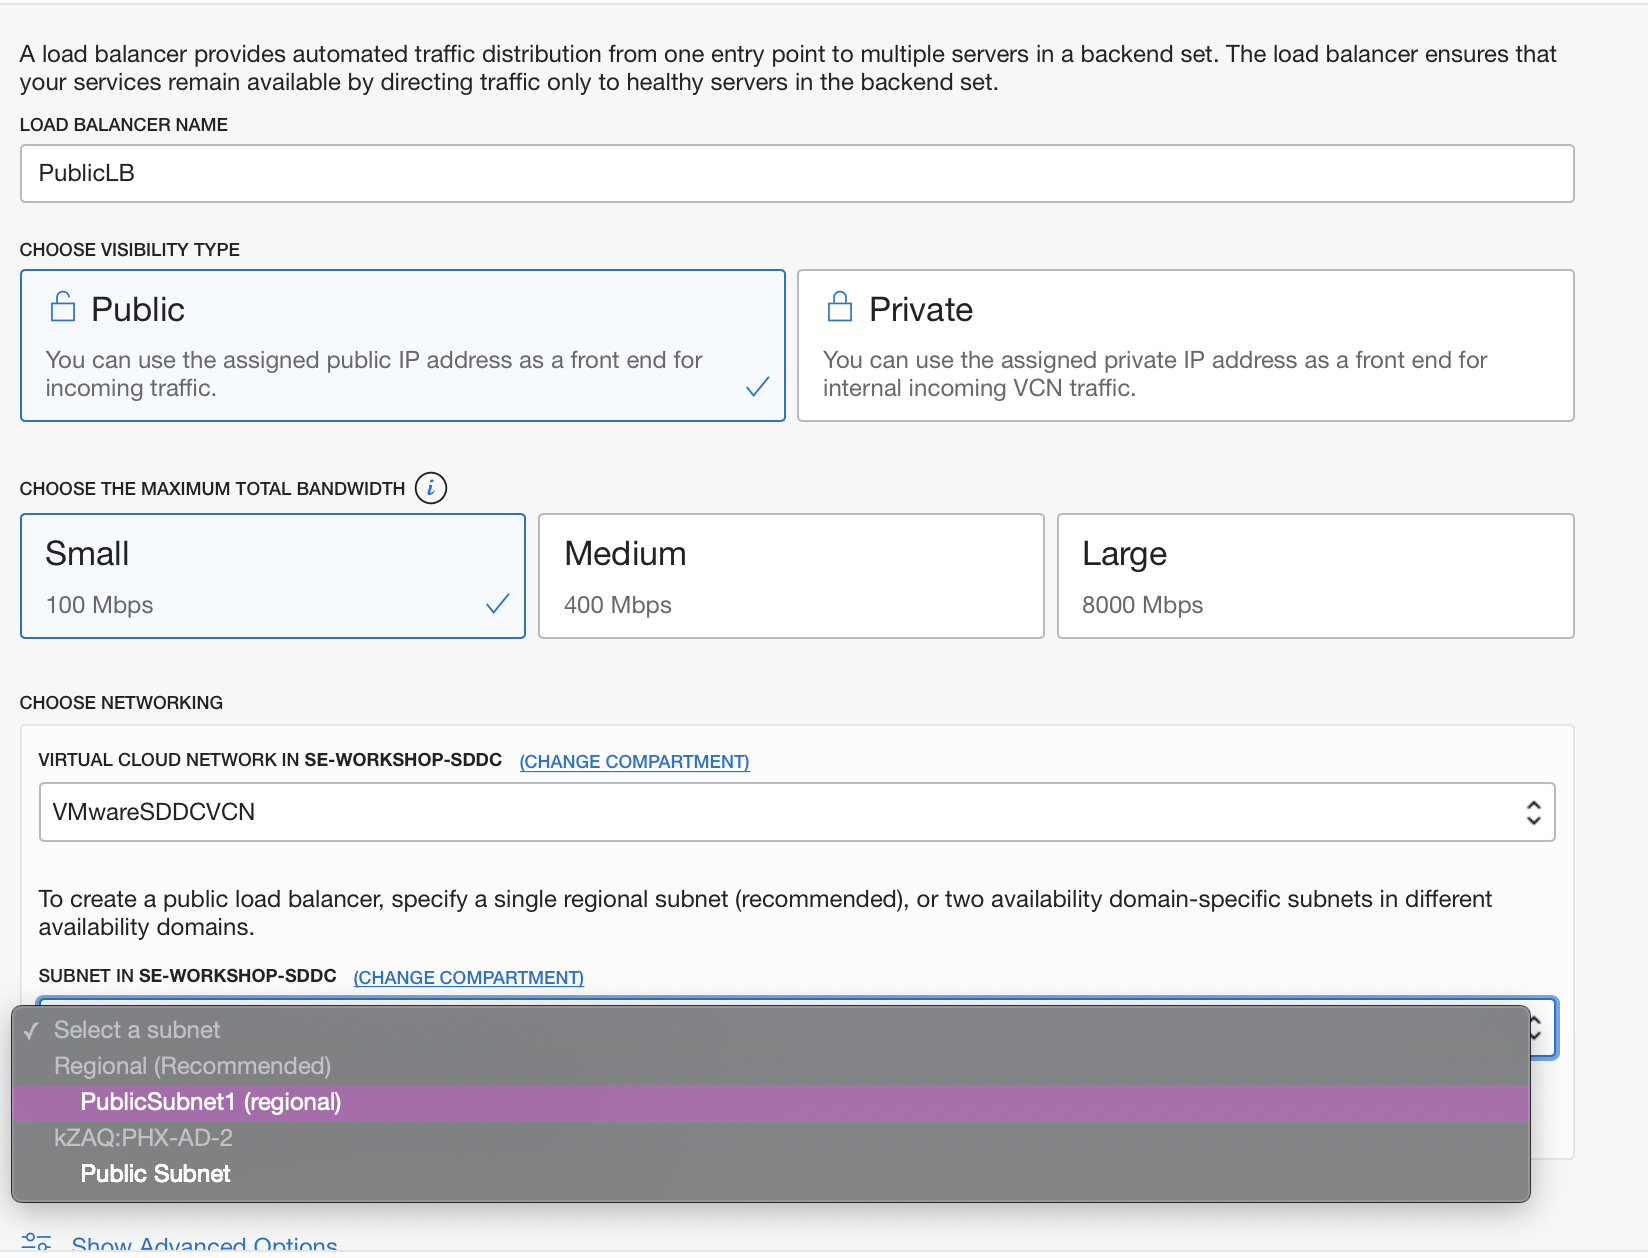
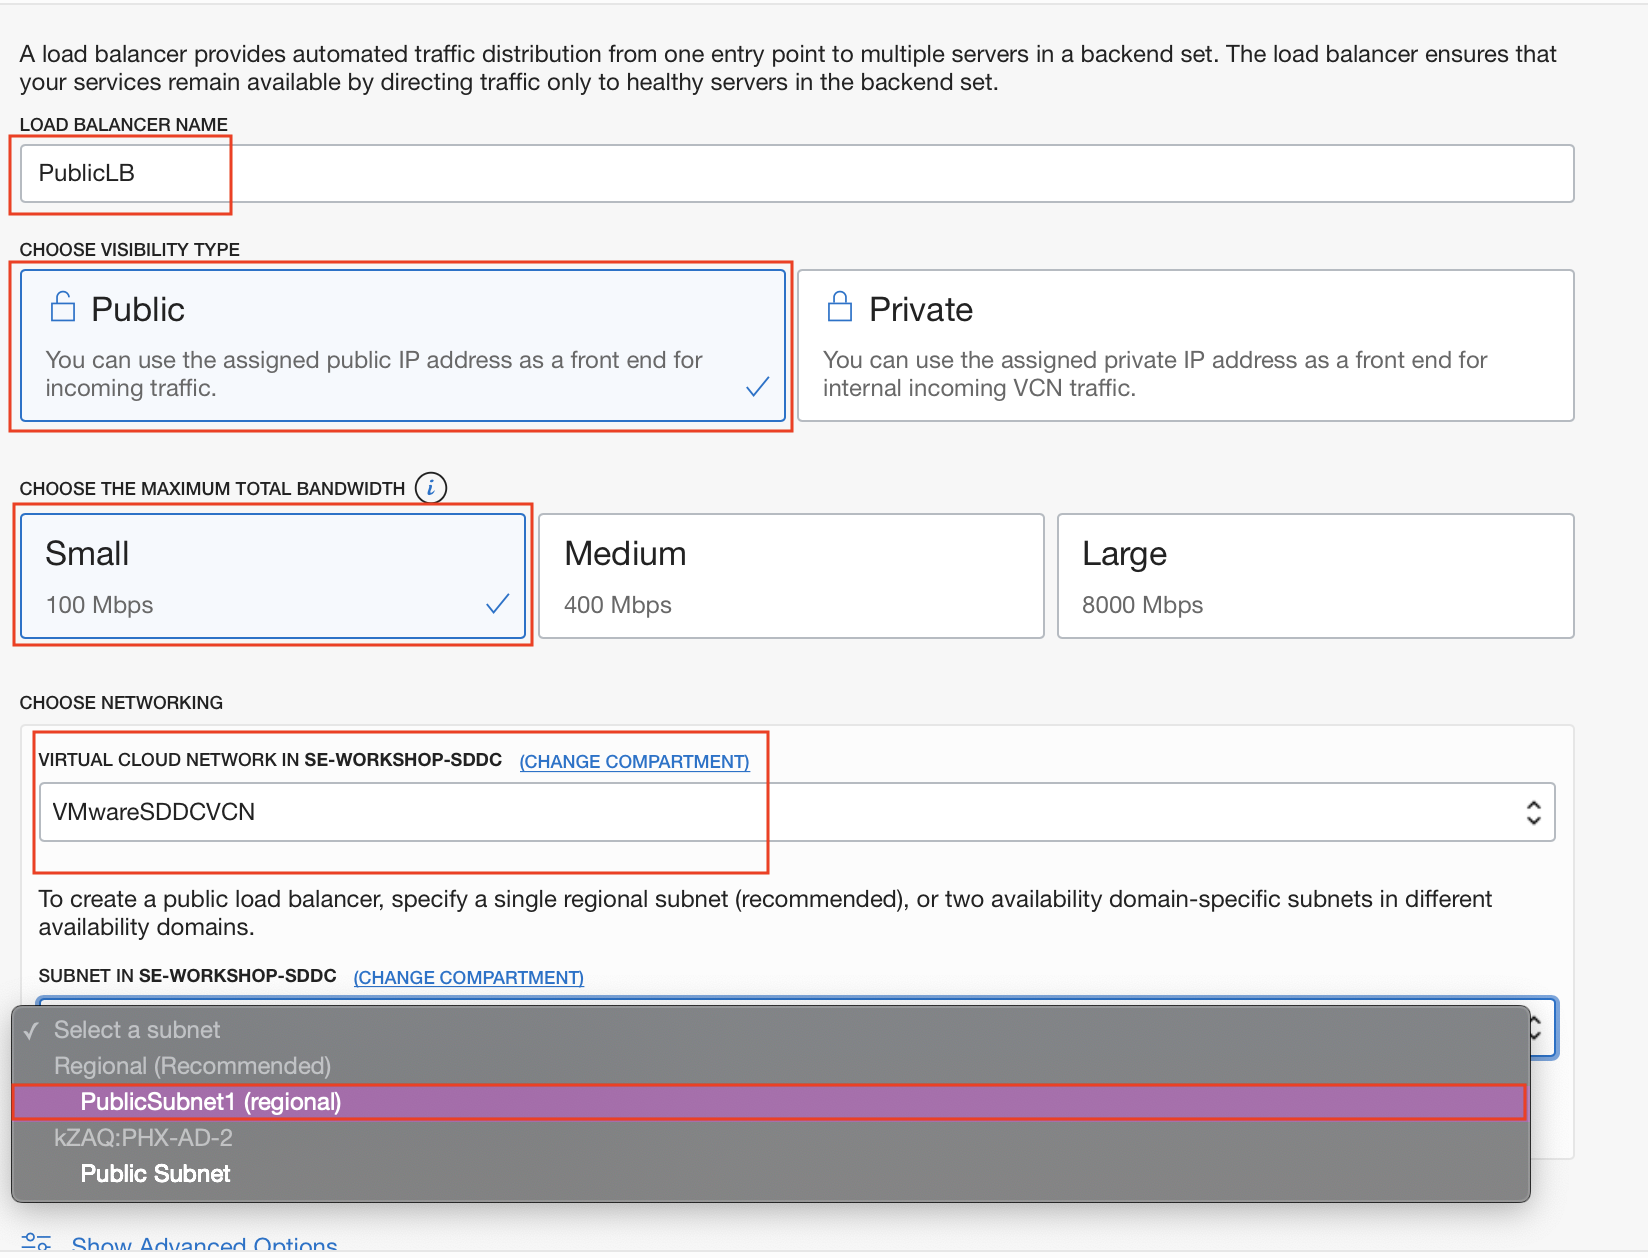
Lab 400 Update LB

diff --git a/OCVS/ExtendApptoOCI.md b/OCVS/ExtendApptoOCI.md
@@ -94,6 +94,30 @@ In this lab, we will extend the application that we deployed in the VMWare SDDC 
 
 - Create Load Balancer
 
-    Navigate to the menu. Under **Networking**, select the Load Balancer.
+    Navigate to the menu. Under **Networking**, select the Load Balancer. On the next page, hit the **Create Load Balancer** button.
+
+    ![](./images/Lab400/400_22.png " ")
+    ![](./images/Lab400/400_23.png " ")
+
+    In the details page, provide a name to your Load Balancer, select the visibility Type as Public. The VCN should be the same VCN that we used for our VMWare solution. The subnet will be a regional subnet that we have already created. Once, all of this done, click on **Next**. 
+
+    ![](./images/Lab400/400_24.png " ")
+
+    Now load balancer policy will be the default Weighted Round Robin, health check Policy will be the default, click Next
+
+    ![](./images/Lab400/400_25.png " ")
+
     
-    
+    ![](./images/Lab400/400_26.png " ")
+    ![](./images/Lab400/400_27.png " ")
+    ![](./images/Lab400/400_28.png " ")
+    ![](./images/Lab400/400_29.png " ")
+    ![](./images/Lab400/400_30.png " ")
+    ![](./images/Lab400/400_31.png " ")
+
+
+Give a Listener name, Type of Traffic will be HTTP, port will be 80 and now click Submit
+
+
+
+
